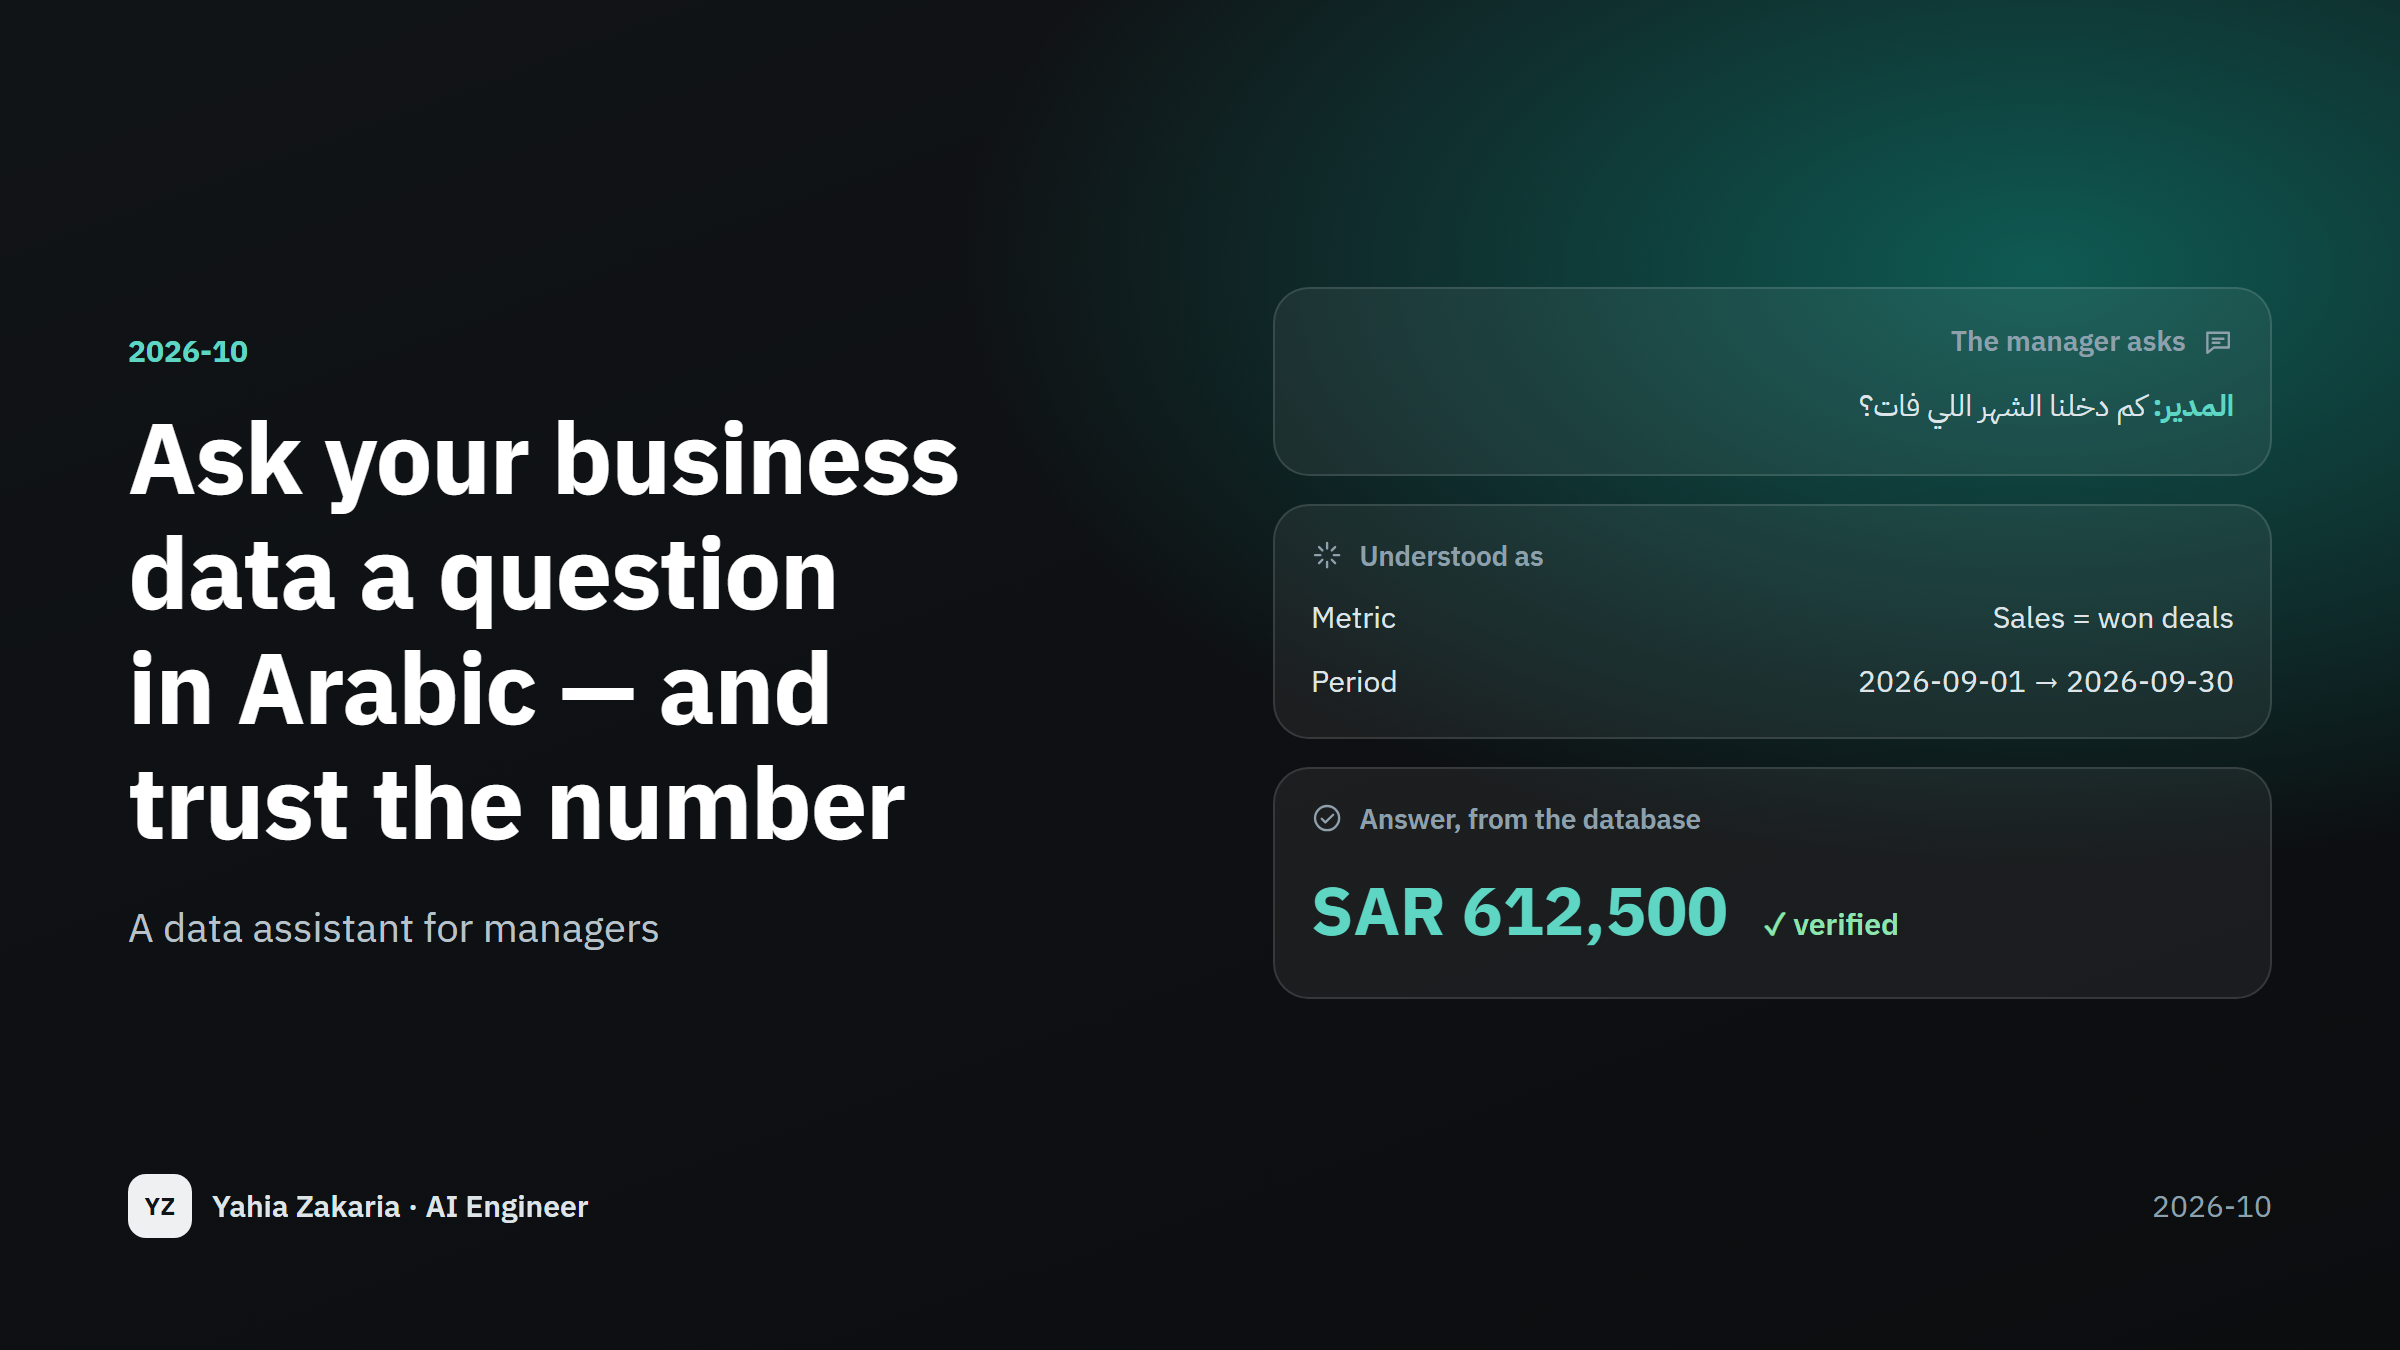
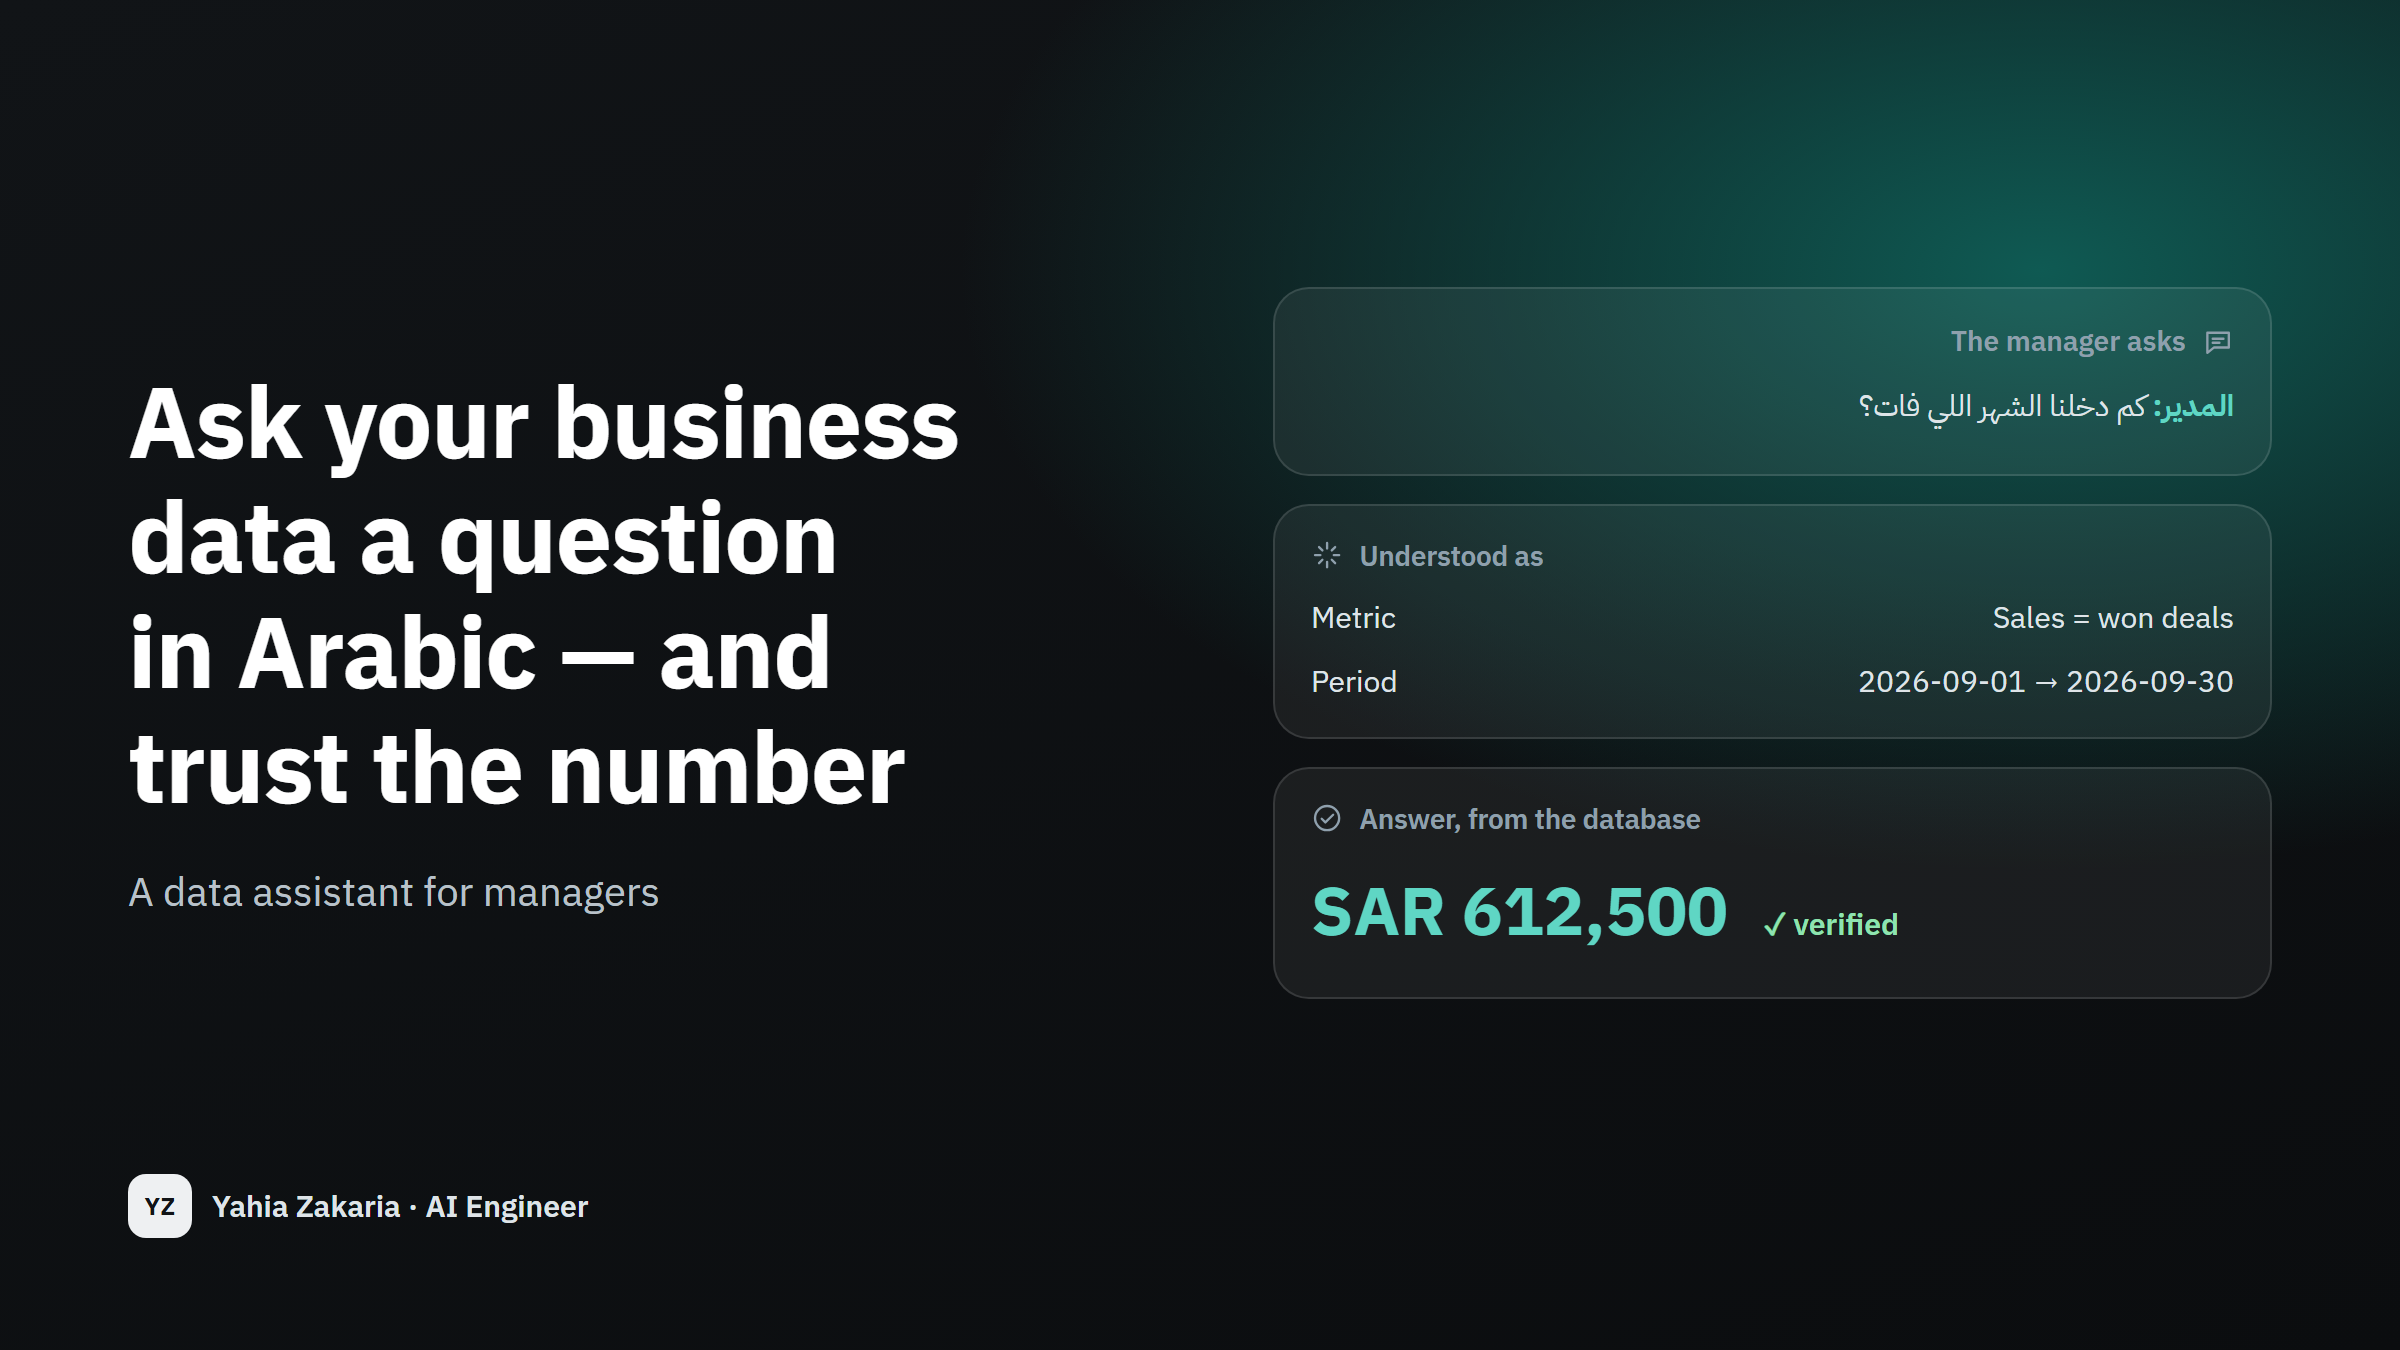
English by default, broader headline, no featured project, clean portrait
- Root page opens English unless the reader picked Arabic before.
- Headline and intro now cover data analysis as well as calls.
- Home page no longer shows a featured project.
- Portrait background replaced with a plain backdrop (original kept).
- Generated cover images no longer show a date.
- Hotel project notes the method applies to Saudi hotels in riyals.

Changed region(s): [[0.0312, 0.2489, 0.4062, 0.6222], [0.0312, 0.6533, 0.2812, 0.7156], [0.9062, 0.8711, 0.9375, 0.9022]]

diff --git a/src/templates/home.html b/src/templates/home.html
@@ -1,6 +1,6 @@
 {% extends "base.html" %}
 {% from "_icons.html" import icon %}
-{% from "_parts.html" import stat, project_card, status_badge %}
+{% from "_parts.html" import stat, project_card %}
 
 {% block main %}
 <section class="hero">
@@ -27,31 +27,6 @@
     </div>
   </div>
 </section>
-
-{% if featured %}
-<section class="section">
-  <div class="wrap">
-    <p class="section-kicker">{{ ui("featured") }}</p>
-    <article class="feature reveal">
-      <a class="feature-media" href="{{ root }}{{ lang }}/projects/{{ featured.slug }}/">
-        <img src="{{ root }}assets/projects/{{ featured.slug }}/{{ lang }}/{{ featured.cover.image }}" alt="{{ t(featured.cover.alt) }}" width="1200" height="675">
-      </a>
-      <div class="feature-body">
-        <div class="card-meta">
-          <span class="chip-static">{{ icon(cat_by_id[featured.category].icon) }}{{ t(cat_by_id[featured.category].name) }}</span>
-          {{ status_badge(featured.status, ui) }}
-        </div>
-        <h2 class="feature-title"><a href="{{ root }}{{ lang }}/projects/{{ featured.slug }}/">{{ t(featured.title) }}</a></h2>
-        <p class="lead">{{ t(featured.tagline) }}</p>
-        <div class="stats stats-compact">
-          {% for s in featured.stats %}{{ stat(s, t) }}{% endfor %}
-        </div>
-        <a class="btn btn-primary" href="{{ root }}{{ lang }}/projects/{{ featured.slug }}/">{{ ui("read_story") }} {{ icon("arrow", "icon icon-dir") }}</a>
-      </div>
-    </article>
-  </div>
-</section>
-{% endif %}
 
 <section class="section section-tint">
   <div class="wrap">

diff --git a/src/templates/shot.html b/src/templates/shot.html
@@ -134,14 +134,14 @@
       </div>
     </div>
   </div>
-  <div class="frame-foot"><span class="who"><span class="brand-mark">YZ</span>{{ t(profile.name) }} · {{ t(profile.role) }}</span><span><bdi>{{ p.date }}</bdi></span></div>
+  <div class="frame-foot"><span class="who"><span class="brand-mark">YZ</span>{{ t(profile.name) }} · {{ t(profile.role) }}</span><span></span></div>
 </div>
 
 {% elif shot == "cover-askdata" %}
 <div class="frame cover">
   <div class="cover-grid">
     <div>
-      <p class="kicker"><bdi>{{ p.date }}</bdi></p>
+      
       <h1>{{ t(p.title) }}</h1>
       <p class="sub">{{ t(p.tagline).split("—")[0].split(":")[0].strip() }}</p>
     </div>
@@ -164,7 +164,7 @@
       </div>
     </div>
   </div>
-  <div class="frame-foot"><span class="who"><span class="brand-mark">YZ</span>{{ t(profile.name) }} · {{ t(profile.role) }}</span><span><bdi>{{ p.date }}</bdi></span></div>
+  <div class="frame-foot"><span class="who"><span class="brand-mark">YZ</span>{{ t(profile.name) }} · {{ t(profile.role) }}</span><span></span></div>
 </div>
 
 {% elif shot == "how-it-works" %}
@@ -256,7 +256,7 @@
 <div class="frame cover">
   <div class="cover-grid">
     <div>
-      <p class="kicker"><bdi>{{ p.date }}</bdi></p>
+      
       <h1>{{ t(p.title) }}</h1>
       <p class="sub">{{ t(p.tagline).split("—")[0].strip() }}</p>
     </div>

diff --git a/src/templates/root.html b/src/templates/root.html
@@ -9,14 +9,11 @@
   <link rel="alternate" hreflang="ar" href="ar/">
   <link rel="icon" href="static/favicon.svg" type="image/svg+xml">
   <script>
-    /* Remembered choice first, then the browser's language, then the site default. */
+    /* The reader's remembered choice, otherwise the site default (English). */
     (function () {
       var lang = null;
       try { lang = localStorage.getItem("lang"); } catch (e) {}
-      if (lang !== "en" && lang !== "ar") {
-        var nav = (navigator.languages && navigator.languages[0]) || navigator.language || "";
-        lang = /^ar\b/i.test(nav) ? "ar" : (/^en\b/i.test(nav) ? "en" : "{{ site.default_lang }}");
-      }
+      if (lang !== "en" && lang !== "ar") lang = "{{ site.default_lang }}";
       location.replace(lang + "/");
     })();
   </script>

diff --git a/tests/test_build.py b/tests/test_build.py
@@ -16,7 +16,6 @@ from schema import Project  # noqa: E402
 def test_real_data_is_valid():
     site, profile, categories, projects = build.load_all()
     assert projects, "no projects found"
-    assert sum(p.featured for p in projects) == 1  # the home page shows exactly one
 
 
 def test_template_matches_the_schema():
